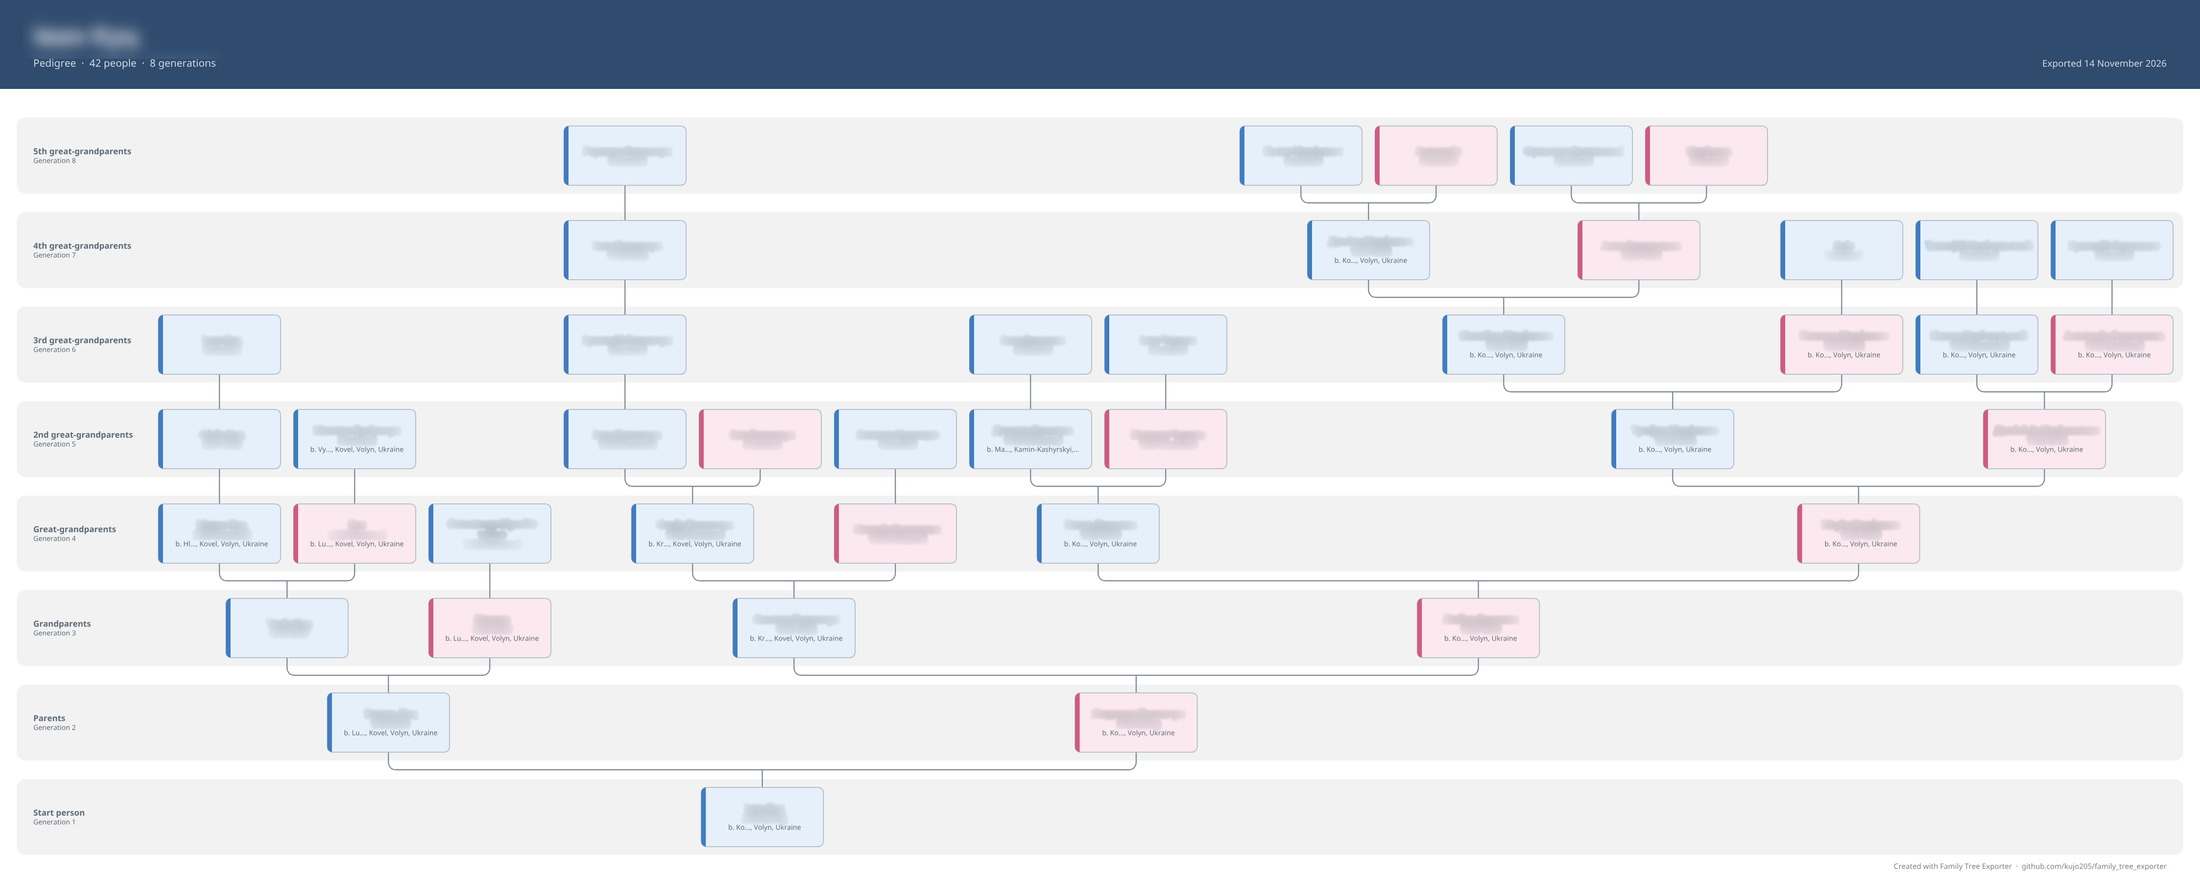
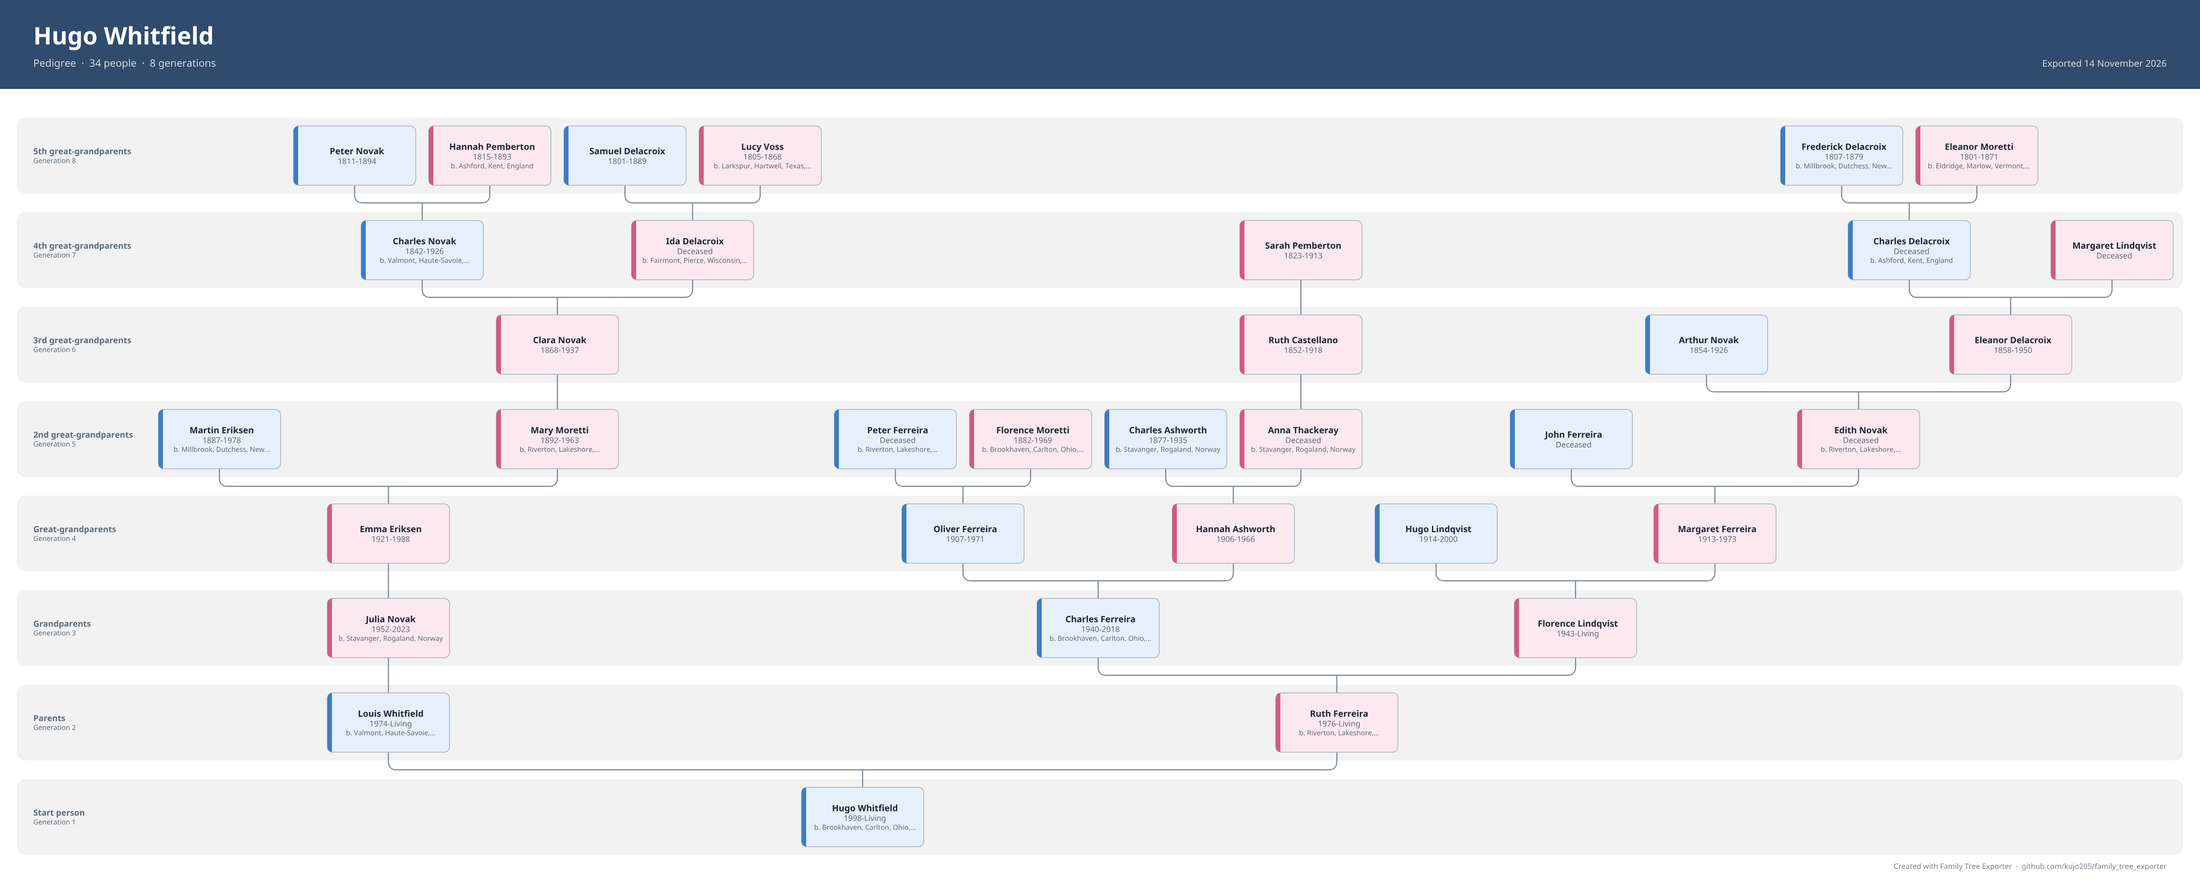
Use a fictional family for the README example images
Replace the blurred images derived from a real tree with output rendered
from entirely mock data, and add a captioned comparison of the six color
schemes.

diff --git a/README.md b/README.md
@@ -28,11 +28,15 @@ Requires [Node.js](https://nodejs.org) 18 or newer. Run `npm install`, then `npm
 
 ## Example
 
-A pedigree exported with the Classic color scheme. Names and years are blurred and settlements are shortened for privacy. Click an image to see it full size.
+A pedigree exported with the Classic color scheme, generated from a fictional family. Click an image to see it full size.
 
 [![Exported pedigree PDF](docs/example-pedigree.png)](docs/example-pedigree.png)
 
 [![Close-up of the lower generations](docs/example-closeup.png)](docs/example-closeup.png)
+
+The six color schemes:
+
+[![The six color schemes](docs/color-schemes.png)](docs/color-schemes.png)
 
 ## Features
 
